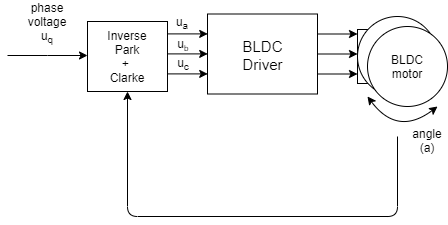
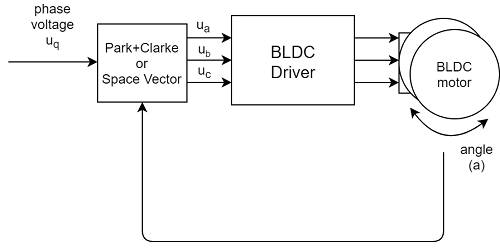
FEAT added better explanantion of the FOC, but still incomplete

diff --git a/docs/simplefoc_library/digging_deeper/theory/FOC_routine.md b/docs/simplefoc_library/digging_deeper/theory/FOC_routine.md
@@ -9,47 +9,47 @@ nav_order: 1
 permalink: /foc_theory
 ---
 
-# Field Oriented Control routine 
-    
-## Initializing - `setup()`
-After the motor and encoder are initialized and the driver and control loops are configured you initialize the FOC algorithm. 
-```cpp
-// align encoder and start FOC
-motor.initFOC();
-```
-This function aligns encoder and motor zero positions and initializes FOC variables. It is intended to be run in the `setup` function of the Arduino. After the call of this function FOC is ready to start following your instructions.
+# Field Oriented Control algorithm briefly
 
-## Real-time execution `loop()`
+Field oriented control algorithm's main task is to take user defined voltage <i>u<sub>q</sub></i> and, by continuously reading the position of the motor rotor <i>a</i>, calculate the appropriate phase voltages <i>u<sub>a</sub></i>,<i>u<sub>b</sub></i> and <i>u<sub>c</sub></i>. 
 
-The real time execution of the Arduino Simple FOC library is governed by two functions `motor.loopFOC()` and `motor.move(float target)`.
-```cpp
-// iterative setting FOC phase voltage
-// the faster you run this function the better
-// in arduino loop it should have ~1kHz
-// the best would be to be in ~10kHz range
-motor.loopFOC();
-```
-The function `loopFOC()` gets the current motor angle from the encoder, turns in into the electrical angle and computes Clarke transform to set the desired <i>U<sub>q</sub></i> voltage to the motor. Basically it implements the functionality of the [voltage control loop](/voltage_loop).
-- The faster you can run this function the better 
-- In the empty arduino loop it runs at ~1kHz but ideally it would be around ~10kHz
+<img src="../extras/Images/voltage_loop.png">
 
+FOC algorithm calculates the phase voltages which create the magnetic field in the motor's rotor which are exactly 90 degrees "behind" the magnetic field of the permanent magnets of the rotor, creating a pushing effect. Here is a very nice animation of what happens inside of the motor when running simplified version of the the FOC called six-step modulation. 
+
+<iframe src='https://gfycat.com/ifr/MealyDeafeningHarpyeagle' frameborder='0' scrolling='no' allowfullscreen width='640' height='404'></iframe><p> <a href="https://gfycat.com/mealydeafeningharpyeagle">via Gfycat</a></p>
+
+Another way to look at why we need 90 degree angle in between rotor and stator fields if by remembering the equation of the electric force generated by the wire passing through the magnetic field:
 
 ```cpp
-// iterative function setting the outer loop target
-// velocity, position or voltage
-// this function can be run at much lower frequency than loopFOC function
-// it can go as low as ~50Hz
-motor.move(target);
+F = B*I*L*sin(alpha)
 ```
-The `move()` method executes the control loops of the algorithm. If is governed by the `motor.controller` variable. It executes either pure voltage loop, velocity loop or angle loop.
 
-It receives one parameter `BLDCMotor::move(float target)` which is current user define target value.
-- If the user runs [velocity loop](/velocity_loop), `move` function will interpret `target` as the target velocity <i>v<sub>d</sub></i>.
-- If the user runs [angle loop](/angle_loop), `move` will interpret `target` parameter as the target angle<i>a<sub>d</sub></i>. 
-- If the user runs the [voltage loop](/voltage_loop), `move` function will interpret the `target` parameter as voltage <i>u<sub>d</sub></i>.
+Where `B` is the strength of the magnetic field, `L` is the length of the wire,  `I` is the electric current magnitude and the `alpha` is the angle in between magnetic field `B` and current `I`. From this equation we can see that in order to have the maximum force `F = B*I*L` we need to maintain `alpha` angle equal to 90 degrees or `PI/2` radians.
+
+## How to calculate the appropriate voltages <i>u<sub>a</sub></i>,<i>u<sub>b</sub></i> and <i>u<sub>c</sub></i> 
+
+Since the <span class="simple">Simple<span class="foc">FOC</span>library</span> is intended for education about the FOC algorithm as well for enabling various applications, there are two versions of the FOC modulation implemented in this library. 
+
+- Sinusoidal PWM: `SinePWM`
+- Space Vector PWM: `SpaceVectorPWM`
+
+You can configure them by setting the value of `motor.foc_modulation` variable:
+```cpp
+motor.foc_modulation = FOCModulationType::SinePWM; // default
+// or
+motor.foc_modulation = FOCModulationType::SpaceVectorPWM;
+```
+
+These are the two most standard approaches to calculating appropriate phase voltages from desired voltage <i>U<sub>q</sub></i>.
+
+Sinusoidal | Space Vector
+--- | ---
+<img src="../extras/Images/0.5.jpg" class="img400"> | <img src="../extras/Images/svm0.5.jpg"  class="img400">
 
 
-## Power supply voltage
+### Sinusoidal commutation `SinePWM`
+
 The default  `voltage_power_supply`  value is set to `12V`. If you set your power supply to some other value, change it here for the control loops to adapt.
 ```cpp
 // power supply voltage
@@ -59,3 +59,7 @@ The `voltage_power_supply` value tells the FOC algorithm what is the maximum vol
 
 <img src="../extras/Images/sine_foc.png" >
 
+
+### Space vector commutation `SpaceVectorPWM`
+
+> Full documentation will be available shortly

diff --git a/docs/simplefoc_library/code/index.md b/docs/simplefoc_library/code/index.md
@@ -30,7 +30,7 @@ The quotation marks `" "` are used when the header files are in the same directo
 First step when writing the code is initializing and configuring the position sensor.
 The library supports two types of position sensors:
  - [Encoders](encoder): Optical, Capacitive, Magnetic encoders (ABI)
- - [Magnetic sensors](magnetic_sensor): SPI communication
+ - [Magnetic sensors](magnetic_sensor): SPI or I2C communication
 
 Choose position sensor to use with this example:
 
